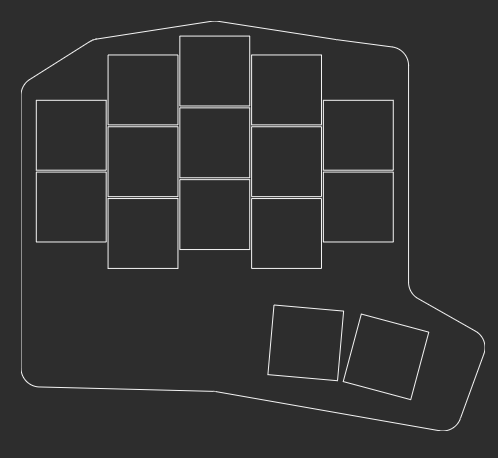
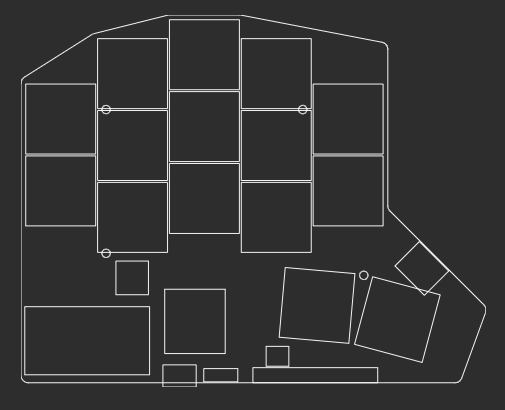
readme

Changed region(s): [[0.0301, 0.0293, 0.994, 0.9659], [0.8133, 0.1171, 0.8434, 0.1463], [0.0904, 0.1171, 0.1205, 0.1463]]

diff --git a/README.md b/README.md
@@ -18,9 +18,6 @@
     - [corax](https://github.com/dnlbauer/corax-keyboard/tree/main)
     - [flatfootfox's guide](https://flatfootfox.com/ergogen-introduction/)
 - Modular wedge design planned to use similar technique as in [this reddit post](https://redd.it/1ej0ngl)
-- Overlapping switch footprint references:
-    - [ergotravelxt](https://github.com/FIXMBR/ErgoTravelXT)
-    - [revxlp](https://gitlab.com/lpgalaxy/revxlp)
 
 ## Naming
 
@@ -33,8 +30,17 @@ and
 
 > It is one of the world's largest songbirds, and is renowned for its elaborate tail and courtship displays, and its excellent mimicry. The species is endemic to Australia and is found in forest in the southeast of the country. According to David Attenborough, the superb lyrebird displays one of the most sophisticated voice skills within the animal kingdom—"the most elaborate, the most complex, and the most beautiful"
 
-## Unsorted/loose todos and notes
+## Images
 
-- To support multi layouts in ZMK, you can use the `chosen` thing, like in the corneish zen
-- Currently, with a wireless-only design, you can pull off 9 vik pins + 4 rows + 5 cols = 18 pins exactly on the outer edge of a pro micro. If I wanted to use the inner pins of a nice!nano or the bottom edge pins of a rp2040 community edition controller, then I could add wired support and a 6th column.
-- Need to explore using an SMD-only diode footprint (or staggering the ones for the inner column), and want to use a hotswap footprint with the socket outline to confirm clearances
+Menura PCB: ![menura pcb](img/menura-pcb.png)
+
+Menura in 36 key configuration: ![menura-36key](img/36-key.png)
+
+Menura in 30 key configuration: ![menura-30key](img/30-key.png)
+
+## TODOs
+
+- routing
+- slide-on wedge case and center wedge
+- magnet case and wedge
+- "tenting leg" hole case and wedge
